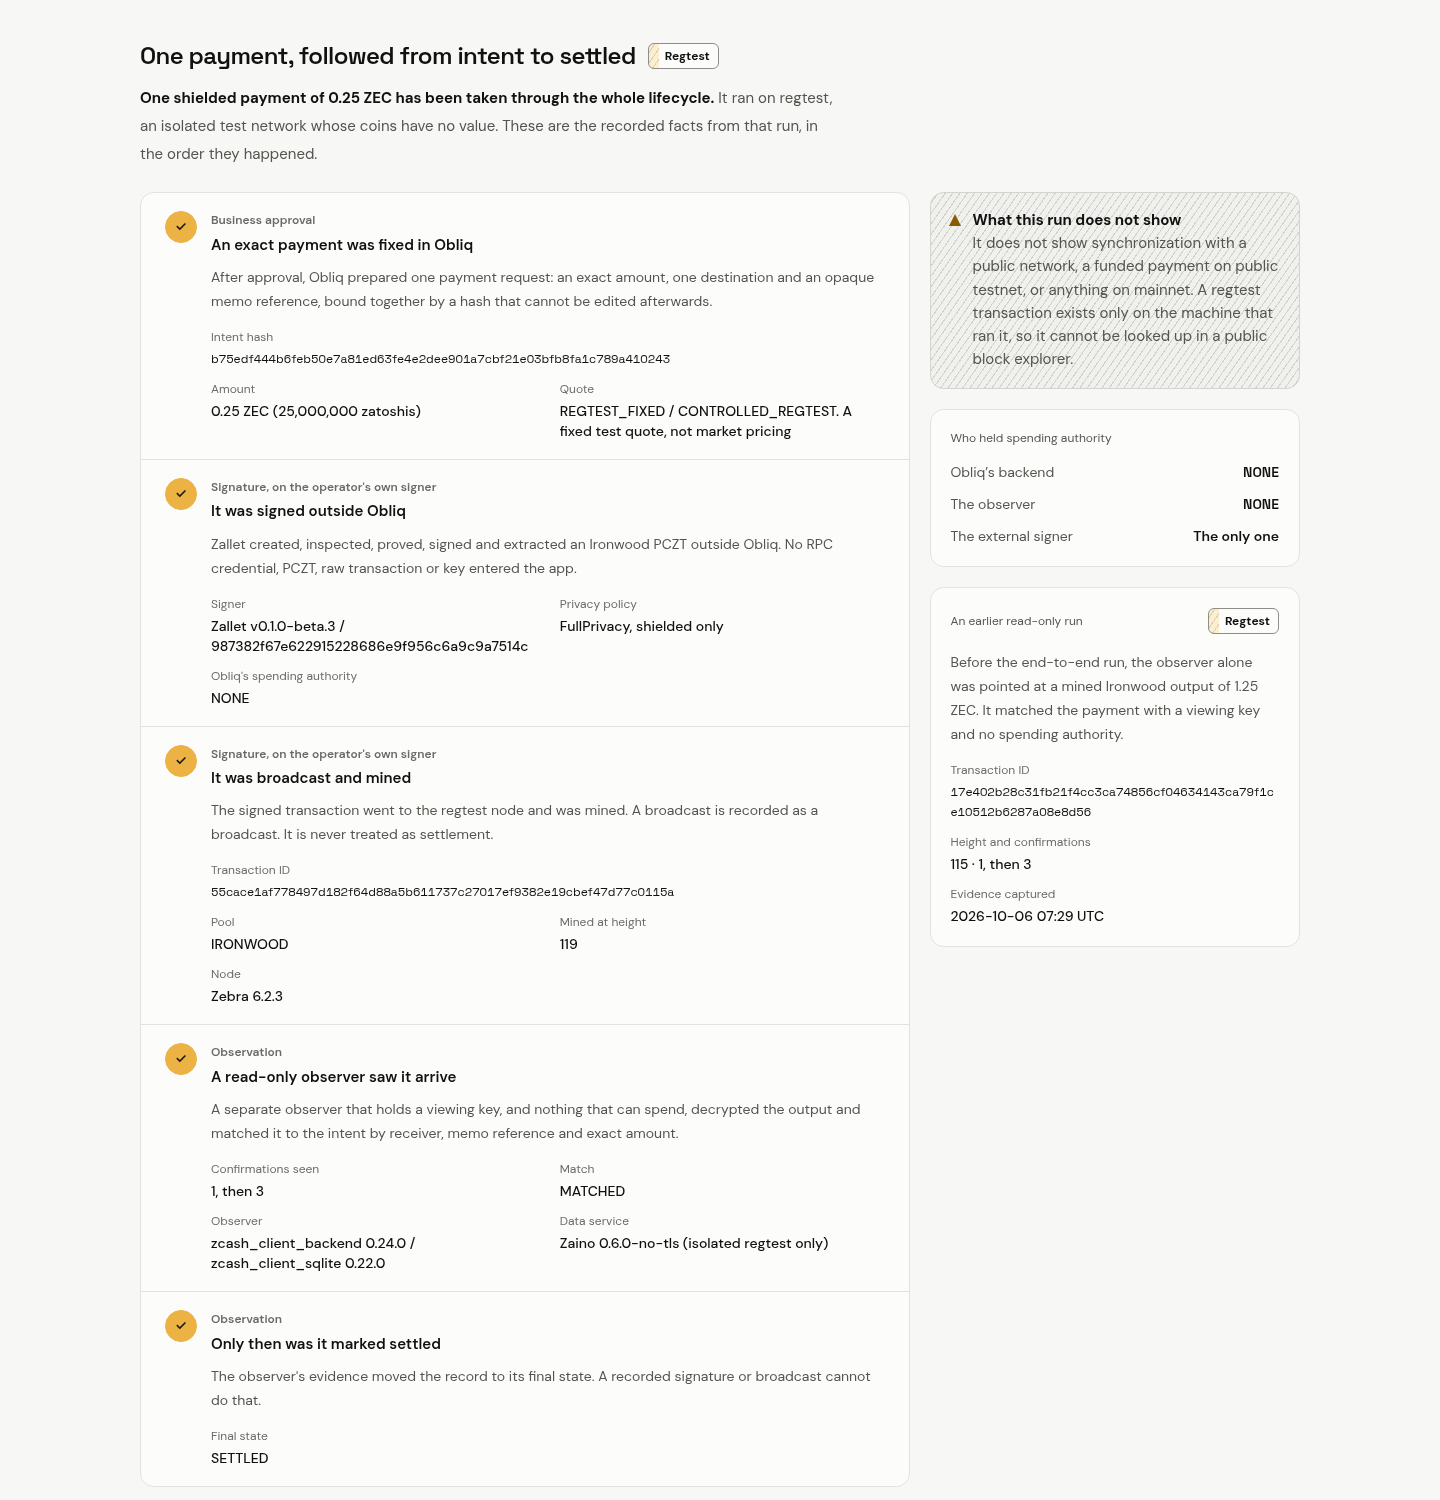
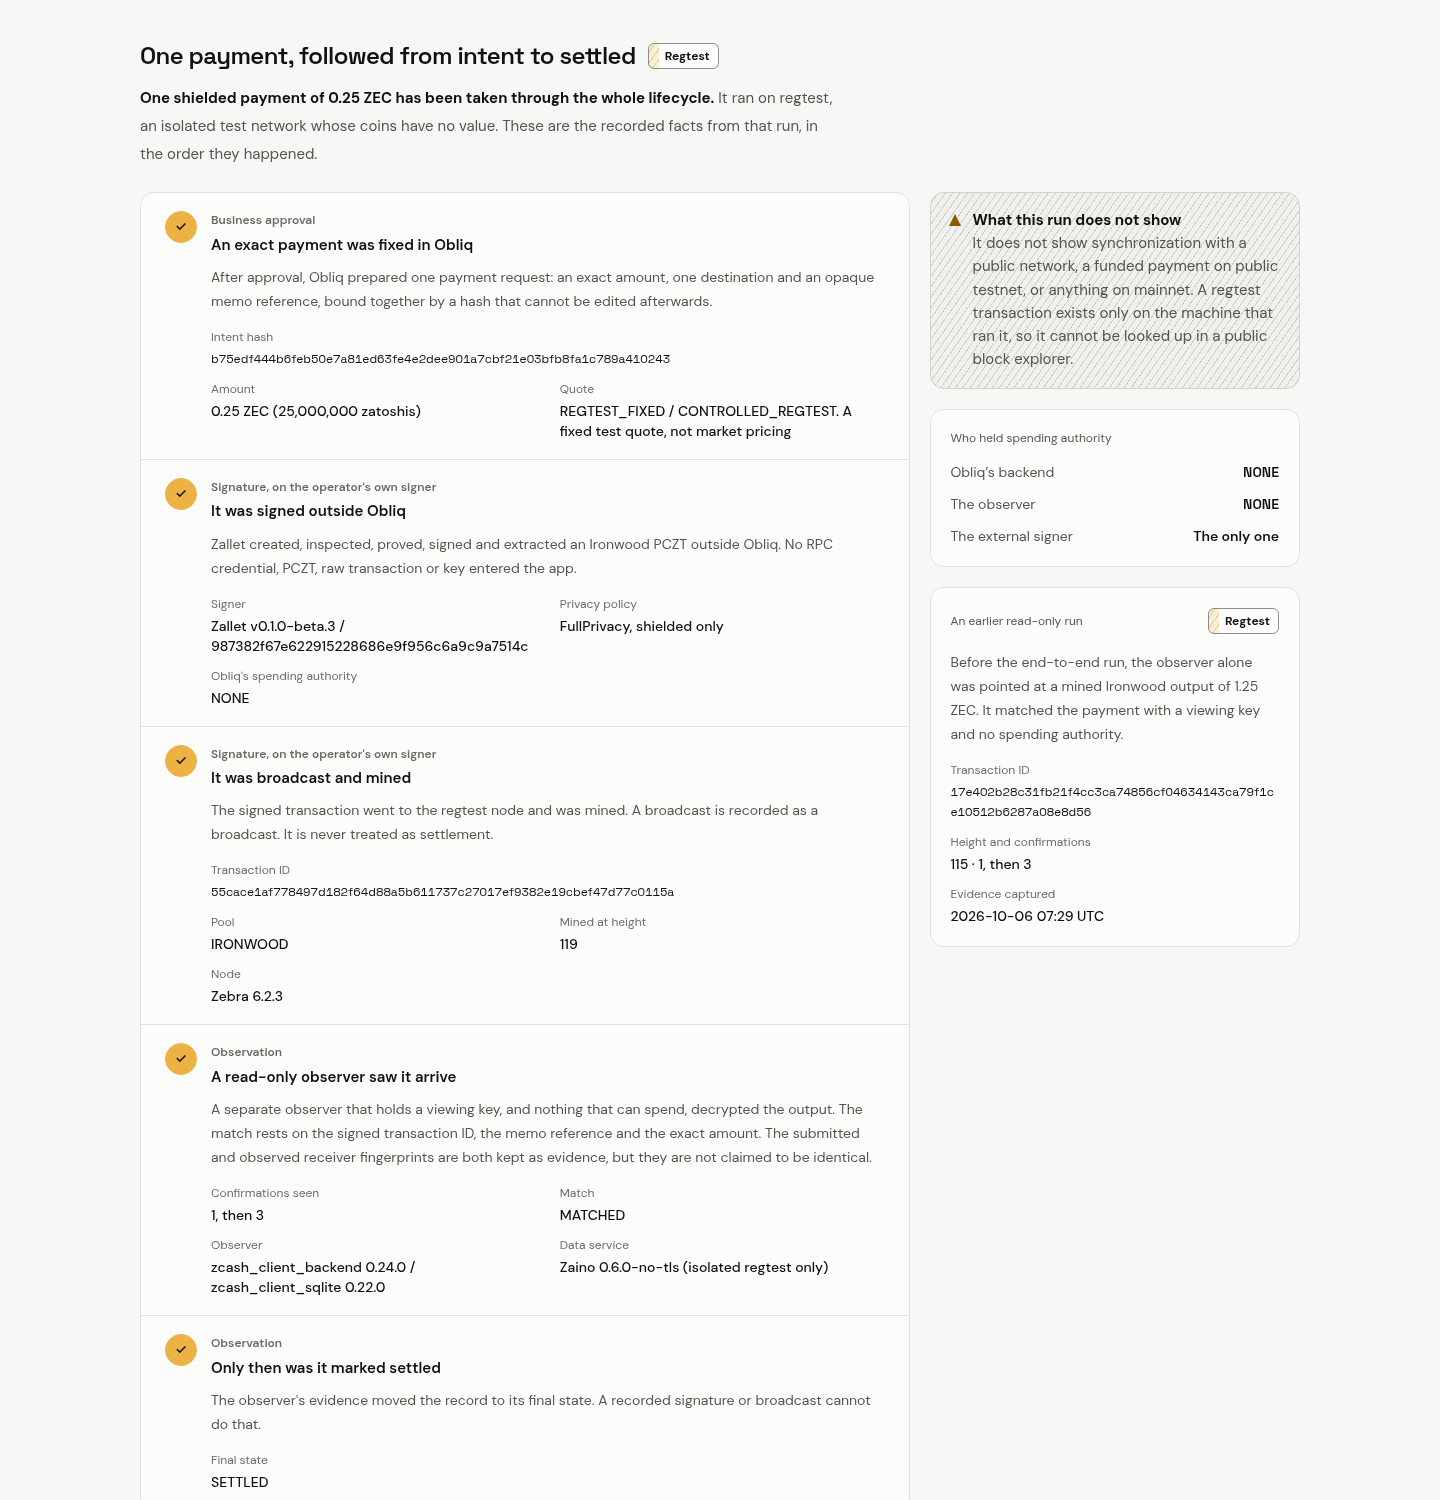
fix(web): correct three claims on the landing, proof and invitation panel
- Landing: say a payment from a transparent address reveals who, how much
  and how often, not every payment on a public blockchain
- Regtest settlement: describe the observer match as ADR 0007 does. The
  signed transaction ID, memo reference and exact amount form it; receiver
  fingerprints are kept as evidence without claiming they are identical
- Invitation revoke: a refusal no longer claims the link is still open; it
  asks the operator to refresh the saved status

diff --git a/apps/web/src/app/page.tsx b/apps/web/src/app/page.tsx
@@ -113,12 +113,12 @@ export default function LandingPage() {
                 Pay your bills without <em>publishing your business.</em>
               </h1>
               <p className="t-lede mt-6 max-w-[34rem]">
-                On a public blockchain, every payment shows who you pay, how
-                much and how often. Obliq is accounts payable for finance teams
-                that pay vendors and contractors in crypto. Record a bill,
-                approve it under your own policy, and pay it in shielded Zcash
-                from a signer you control. The payment is matched back to the
-                bill, with evidence you choose to share.
+                A payment from a transparent blockchain address shows who you
+                pay, how much and how often. Obliq is accounts payable for
+                finance teams that pay vendors and contractors in crypto. Record
+                a bill, approve it under your own policy, and pay it in shielded
+                Zcash from a signer you control. The payment is matched back to
+                the bill, with evidence you choose to share.
               </p>
               <div className="mt-8 flex flex-wrap items-center gap-x-6 gap-y-3">
                 <Link href={primary.href} className="button button-dark">
@@ -186,7 +186,7 @@ export default function LandingPage() {
                 className="t-title mt-4 text-[clamp(1.75rem,3vw,2.25rem)]!"
                 id="problem-h"
               >
-                On a public chain, your payables are public.
+                Paid transparently, your payables are public.
               </h2>
               <p className="t-lede mt-5">
                 Paying a supplier from a transparent address tells every

diff --git a/apps/web/src/components/regtest-settlement.tsx b/apps/web/src/components/regtest-settlement.tsx
@@ -46,7 +46,7 @@ const stages = [
   {
     title: "A read-only observer saw it arrive",
     lane: "Observation",
-    text: "A separate observer that holds a viewing key, and nothing that can spend, decrypted the output and matched it to the intent by receiver, memo reference and exact amount.",
+    text: "A separate observer that holds a viewing key, and nothing that can spend, decrypted the output. The match rests on the signed transaction ID, the memo reference and the exact amount. The submitted and observed receiver fingerprints are both kept as evidence, but they are not claimed to be identical.",
     facts: [
       ["Confirmations seen", `${firstSeen}, then ${lastSeen}`],
       ["Match", run.correlation],

diff --git a/apps/web/src/components/recipient-invitation-panel.tsx b/apps/web/src/components/recipient-invitation-panel.tsx
@@ -450,7 +450,7 @@ export function RecipientInvitationPanel({
                       className="mt-4 text-sm"
                     >
                       {revokeErrors[invitation.id] ??
-                        "The server refused the request, so the link is still open."}
+                        "The server refused the request. Refresh this page to see the invitation's saved status before you try again."}
                     </Notice>
                   )}
                   {result === "UNCERTAIN" && (

diff --git a/docs/design/implementation/final-polish/README.md b/docs/design/implementation/final-polish/README.md
@@ -73,8 +73,9 @@ captured at 2x). All 36 were retaken after the last code change.
 
 Landing page:
 
-- The first paragraph now states the problem before the product: on a public
-  blockchain every payment shows who you pay, how much and how often. It then
+- The first paragraph now states the problem before the product: a payment
+  from a transparent blockchain address shows who you pay, how much and how
+  often. It then
   names who Obliq is for and how a bill moves.
 - "What a transparent payment reveals" says what each exposure costs a
   business, not only what is visible.
